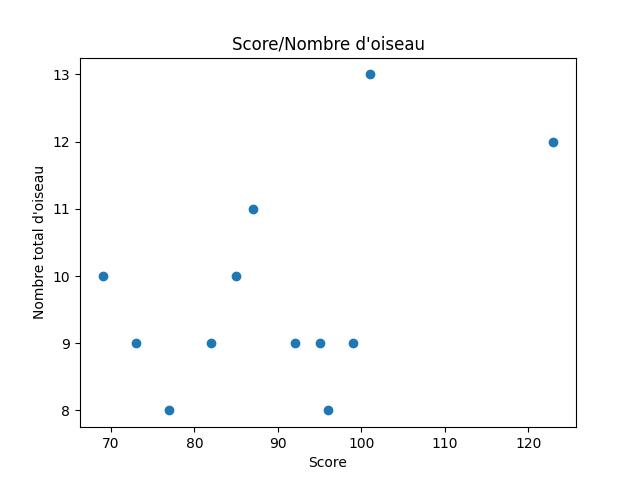
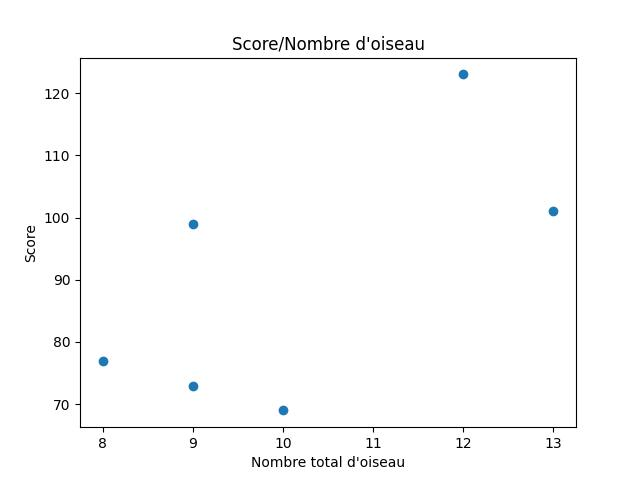
Cecile graph

diff --git a/stats/service/graph/score_bird_repartition.py b/stats/service/graph/score_bird_repartition.py
@@ -1,0 +1,79 @@
+import matplotlib.pyplot as plt
+
+from stats.constants.habitat import Habitat
+from stats.service.graph.graph import GraphService
+
+
+class BirdRepartitionGraphService(GraphService):
+    filename = 'stats/files/graph/bird_repartition.jpg'
+    
+    def __init__(self, **kwargs):
+        self.labels = []
+        self.forests = []
+        self.plains = []
+        self.swamps = []
+        self.bottom_swamp = []
+        super().__init__(**kwargs)
+
+    def add_options(self):
+        plt.ylabel('Partie')
+        plt.xlabel("Répartition au sein des habitats")
+        plt.title("Répartition au sein des 10 meilleures parties")
+
+        self.ax.legend()
+
+    @staticmethod
+    def label_from_player_game(player_game):
+        return f"{player_game.score} ({player_game.user})"
+
+    @staticmethod
+    def number_of_bird_in_habitat(player_game, habitat):
+        return len(player_game.birds.filter(habitat=habitat))
+
+    def sort_data(self):
+        self.player_games = sorted(
+            self.player_games,
+            key=lambda player_game: player_game.score
+        )
+
+    def filter_data(self):
+        if len(self.player_games) > 10:
+            self.player_games = self.player_games[-10:]
+
+    def generate_dataset(self):
+        for player_game in self.player_games:
+            self.labels.append(self.label_from_player_game(player_game))
+            self.forests.append(self.number_of_bird_in_habitat(player_game, Habitat.FOREST))
+            self.plains.append(self.number_of_bird_in_habitat(player_game, Habitat.PLAIN))
+            self.swamps.append(self.number_of_bird_in_habitat(player_game, Habitat.SWAMP))
+
+        for index, forest in enumerate(self.forests):
+            self.bottom_swamp.append(forest + self.plains[index])
+    
+    def add_data_to_figure(self):
+        self.ax.bar(
+            self.labels,
+            self.forests,
+            color="green",
+            label="Forest"
+        )
+        self.ax.bar(
+            self.labels,
+            self.plains,
+            color="gold",
+            label="Plaine",
+            bottom=self.forests
+        )
+        self.ax.bar(
+            self.labels,
+            self.swamps,
+            color="blue",
+            label="Marais",
+            bottom=self.bottom_swamp
+        )
+
+    def compute_data(self):
+        self.sort_data()
+        self.filter_data()
+        self.generate_dataset()
+        self.add_data_to_figure()

diff --git a/stats/service/graph/all_graph.py b/stats/service/graph/all_graph.py
@@ -1,0 +1,37 @@
+from __future__ import annotations
+
+from typing import TYPE_CHECKING, List, Optional
+
+from stats.service.graph.engine_score import EngineGraphService
+from stats.service.graph.score_bird_number import BirdNumberGraphService
+from stats.service.graph.score_bird_number_habitat import BirdNumberHabitatGraphService
+
+if TYPE_CHECKING:
+    from stats.models import PlayerGame
+
+
+class AllGraph:
+    graph_list = [
+        EngineGraphService,
+        BirdNumberGraphService,
+        BirdNumberHabitatGraphService,
+    ]
+
+    def __init__(
+            self,
+            display: bool = False,
+            player_games: Optional[List[PlayerGame]] = None
+    ):
+        from stats.repositories.player_games import PlayerGameRepository
+
+        self.display = display
+        if player_games is None:
+            self.player_games = PlayerGameRepository.all()
+        else:
+            self.player_games = player_games
+
+        self.result()
+
+    def result(self):
+        for graph in self.graph_list:
+            graph(display=self.display, player_games=self.player_games)

diff --git a/stats/service/graph/score_bird_number_habitat.py b/stats/service/graph/score_bird_number_habitat.py
@@ -11,8 +11,8 @@ class BirdNumberHabitatGraphService(GraphService):
 
     @staticmethod
     def add_options():
-        plt.xlabel('Score')
-        plt.ylabel("Nombre total d'oiseau")
+        plt.ylabel('Score')
+        plt.xlabel("Nombre total d'oiseau")
         plt.legend(loc='upper left')
         plt.title("Score/Nombre d'oiseau")
 
@@ -28,7 +28,7 @@ class BirdNumberHabitatGraphService(GraphService):
             scores.append(self.approximate_score(player_game.score))
             birds = player_game.birds.filter(habitat=habitat)
             bird_numbers.append(len(birds))
-        self.ax.scatter(scores, bird_numbers, color=color, label=label)
+        self.ax.scatter(bird_numbers, scores, color=color, label=label)
 
     @staticmethod
     def approximate_score(score):

diff --git a/stats/service/graph/score_bird_number.py b/stats/service/graph/score_bird_number.py
@@ -8,8 +8,8 @@ class BirdNumberGraphService(GraphService):
 
     @staticmethod
     def add_options():
-        plt.xlabel('Score')
-        plt.ylabel("Nombre total d'oiseau")
+        plt.ylabel('Score')
+        plt.xlabel("Nombre total d'oiseau")
         plt.title("Score/Nombre d'oiseau")
 
     def compute_data(self):
@@ -18,4 +18,4 @@ class BirdNumberGraphService(GraphService):
         for player_game in self.player_games:
             scores.append(player_game.score)
             bird_number.append(len(player_game.birds.all()))
-        self.ax.scatter(scores, bird_number)
+        self.ax.scatter(bird_number, scores)

diff --git a/stats/management/commands/do_stuff.py b/stats/management/commands/do_stuff.py
@@ -1,8 +1,8 @@
 from django.core.management.base import BaseCommand
 
-from stats.service.graph.engine_score import EngineGraphService
+from stats.service.graph.score_bird_repartition import BirdRepartitionGraphService
 
 
 class Command(BaseCommand):
     def handle(self, *args, **options):
-        EngineGraphService(True)
+        BirdRepartitionGraphService(display=True)

diff --git a/stats/repositories/player_games.py b/stats/repositories/player_games.py
@@ -5,3 +5,7 @@ class PlayerGameRepository:
     @staticmethod
     def all():
         return PlayerGame.objects.all()
+
+    @staticmethod
+    def by_user(user):
+        return PlayerGame.objects.filter(user=user)
